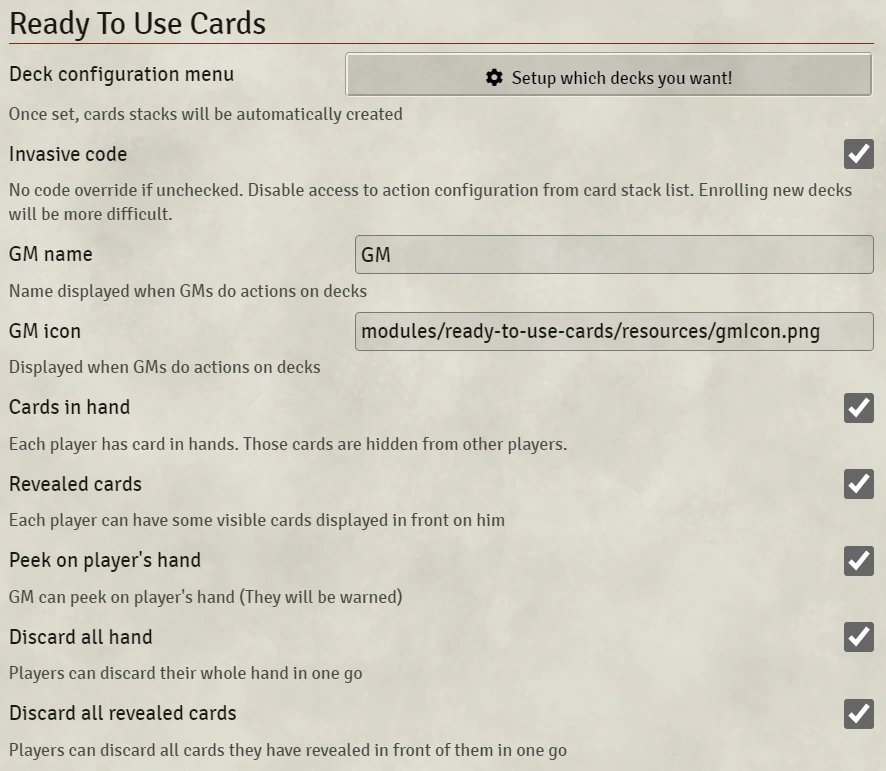
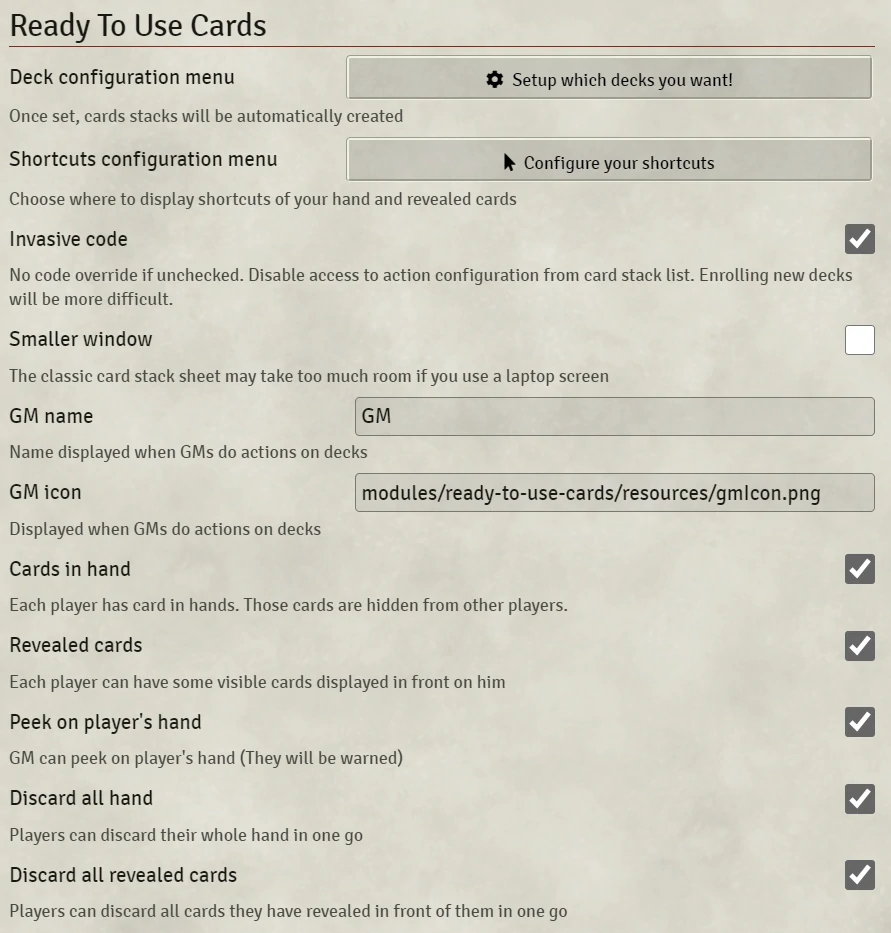
patch 1.3.2 : Issue - Laptop form error

diff --git a/css/cards.css b/css/cards.css
@@ -1,6 +1,4 @@
 .rtucards.cards {
-    min-width: 460px;
-    min-height: 400px;
     background: unset;
 }
 .rtucards.cards .window-content {
@@ -34,6 +32,14 @@
     background-size: 470px 772px;
     overflow: hidden;
 }
+.rtucards.cards.resized .card-slot {
+    min-width: 376px;
+    max-width: 376px;
+    height: 617px;
+    margin: 16px;
+    padding: 16px 44px 16px 44px;
+    background-size: 376px 617px;
+}
 
 .rtucards.cards .card-slot.rotated {
     transform: scale(-1);
@@ -49,6 +55,9 @@
     -webkit-text-stroke-width: 2px;
     -webkit-text-stroke-color: black;
 }
+.rtucards.cards.resized .card-slot .summary {
+    padding-top: 80px;
+}
 
 /*---------------------------------
   Current selection
@@ -58,7 +67,10 @@
     min-height: 500px;
     max-height: 500px;
 }
-
+.rtucards.cards.resized .current-selection {
+    min-height: 400px;
+    max-height: 400px;
+}
 
 /*---------------------------------
   Parameters panel
@@ -69,12 +81,19 @@
     overflow: hidden;
     max-height: 850px;
 }
+.rtucards.cards.resized .current-selection .parameters-panel {
+    max-height: 680px;
+}
 
 .rtucards.cards .parameters-panel .headers {
     flex: unset;
     margin-top: 20px;
     text-align: center;
 }
+.rtucards.cards.resized .parameters-panel .headers {
+    margin-top: 16px;
+}
+
 .rtucards.cards .parameters-panel .title {
     font-size: 1.2em;
     text-align: center;
@@ -85,6 +104,10 @@
     flex: unset;
     margin-right: 10px;
 }
+.rtucards.cards.resized .parameters-panel .cancel {
+    margin-right: 8px;
+}
+
 .rtucards.cards .parameters-panel .cancel:hover {
     cursor: pointer;
     text-shadow: 0 0 4px white;
@@ -92,7 +115,6 @@
 
 .rtucards.cards .parameters-panel .action-button {
     min-height: 30px;
-    max-height: 30px;
     line-height: 24px;
     text-align: center;
     border: 3px groove blanchedalmond;
@@ -113,6 +135,8 @@
  ----------------------------------*/
  .rtucards.cards .parameters-cards .cards{
     transform: scale(0.4);
+    transform-origin: top left;
+    margin-bottom: -1100px;
     background-color: rgba(0, 0, 0, 0.7);
     border: groove blanchedalmond;
     border-radius: 30px;
@@ -122,9 +146,11 @@
     max-width: 1600px;
     min-height: 1850px;
     max-height: 1850px;
-    margin-top: -546px;
-    margin-left: -480px;
     overflow-y: scroll;
+}
+.rtucards.cards.resized .parameters-cards .cards {
+    transform: scale(0.32);
+    margin-bottom: -1250px;
 }
 
 .rtucards.cards .parameters-cards .cards .card-slot.selected {
@@ -227,7 +253,6 @@
 
 .rtucards.cards .action-panel .card-action {
     min-height: 30px;
-    max-height: 30px;
     line-height: 24px;
     text-align: center;
     border: 3px groove blanchedalmond;
@@ -254,6 +279,13 @@
 /*---------------------------------
   Card listing
  ----------------------------------*/
+.rtucards.cards .listing-panel {
+    margin-top: -210px;
+}
+.rtucards.cards.resized .listing-panel {
+    margin-top: -168px;
+}
+
 .rtucards.cards .listing-panel .listing-toggle {
     min-width: 50px;
     max-width: 50px;
@@ -269,15 +301,24 @@
 .rtucards.cards .listing-panel .all-cards {
     justify-content: center;
     align-items: center;
+    transform: scale(0.4);
+    transform-origin: top left;
     min-height: 840px;
     max-height: 840px;
-    margin: -220px -745px 0px -800px;
-    transform: scale(0.4);
+    min-width: 2950px;
     overflow: scroll;
     background-color: rgba(0, 0, 0, 0.7);
     border: groove;
     border-radius: 30px;
 }
+
+.rtucards.cards.resized .listing-panel .all-cards {
+    transform: scale(0.32);
+    min-height: 672px;
+    max-height: 672px;
+}
+
+
 
 .rtucards.cards .listing-panel .card-slot.selected {
     box-shadow: 0 0 100px white;

diff --git a/module/CardsDisplay.js b/module/CardsDisplay.js
@@ -17,16 +17,21 @@ export class CustomCardsDisplay extends CardsConfig {
         this._peekOn = false;
 
         this._actionParameters = null;
+        const resized = game.settings.get('ready-to-use-cards', GlobalConfiguration.smallDisplay);
+        const configScale = resized ? 0.8 : 1;
 
         // Sheet options
         this.options.classes.push('rtucards');
         this.options.classes.push('cards');
+        if( resized ) {
+            this.options.classes.push('resized');
+        }
         this.options.template = "modules/ready-to-use-cards/resources/sheet/card-display.hbs";
         this.options.scrollY = [".all-cards", ".parameters-stacks .stacks", ".parameters-cards .cards"];
-        this.options.width = 1200;
-        this.options.height = 920;
-        this.position.width = 1200;
-        this.position.height = 920;
+        this.options.width = 1200 * configScale;
+        this.options.height = 920 * configScale;
+        this.position.width = 1200 * configScale;
+        this.position.height = 920 * configScale;
     }
 
     /** @override */

diff --git a/module/constants.js b/module/constants.js
@@ -76,11 +76,12 @@ export const GlobalConfiguration = {
     everyHandsPeekOn: 'everyHandsPeekOn',
     everyHandsDiscardAll: 'everyHandsDiscardAll',
     everyRevealedDiscardAll : 'everyRevealedDiscardAll',
+    invasiveCode: 'invasiveCode',
     shortcuts: 'shortcuts',
+    smallDisplay: 'smallDisplay',
     stacks: 'stacks',
     stackForPlayerHand: 'stackForPlayerHand',
-    stackForPlayerRevealedCards: 'stackForPlayerRevealedCards',
-    invasiveCode: 'invasiveCode'
+    stackForPlayerRevealedCards: 'stackForPlayerRevealedCards'
 };
 
 export const DEFAULT_SHORTCUT_SETTINGS = {

diff --git a/module/config.js b/module/config.js
@@ -84,6 +84,16 @@ export const loadCardSettings = () => {
 		config: true
 	});
   
+	game.settings.register("ready-to-use-cards", GlobalConfiguration.smallDisplay, {
+		name: "RTUCards.settings.smallDisplay.label",
+		hint: "RTUCards.settings.smallDisplay.hint",
+		scope: "client",
+		type: Boolean,
+		default: false,
+		config: true,
+		onChange: () => window.location.reload()
+	});
+  
 	game.settings.register("ready-to-use-cards", GlobalConfiguration.gmName, {
 		name: "RTUCards.settings.gmName.label",
 		hint: "RTUCards.settings.gmName.hint",

diff --git a/README.md b/README.md
@@ -217,9 +217,11 @@ And when he clicks on the link :
 
 The first two ones are for the chatlog when GM is doing actions
 
+`Smaller window` : Each player can choose if he wants the classic card stack display or if he prefers a smaller one. Smaller one may be mandatory if you use a laptop screen which is most of the time smaller.
+
 `Cards in hands` and `Revealed cards` can be toggled to delete players hands or revealed cards. That way, Players will only have one stack to manage. But the related actions won't be available anymore.
 
-`Peek on player's hand` : Uncheck it if you d'ont wan't to be tempted !
+`Peek on player's hand` : Uncheck it if you don't want to be tempted !
 
 `Discard all hand` and `Discard all revealed cards` : Thoses actions do not depends on a specific deck and are present even if no cards are selected.
 

diff --git a/CHANGELOG.md b/CHANGELOG.md
@@ -1,5 +1,10 @@
 # CHANGELOG
 
+## Release 1.3.2
+
+### Issue: 
+- Laptop form error:  https://gitlab.com/adrien.schiehle/ready-to-use-cards/-/issues/1
+
 ## Release 1.3.1
 
 ### Bugfix: 
